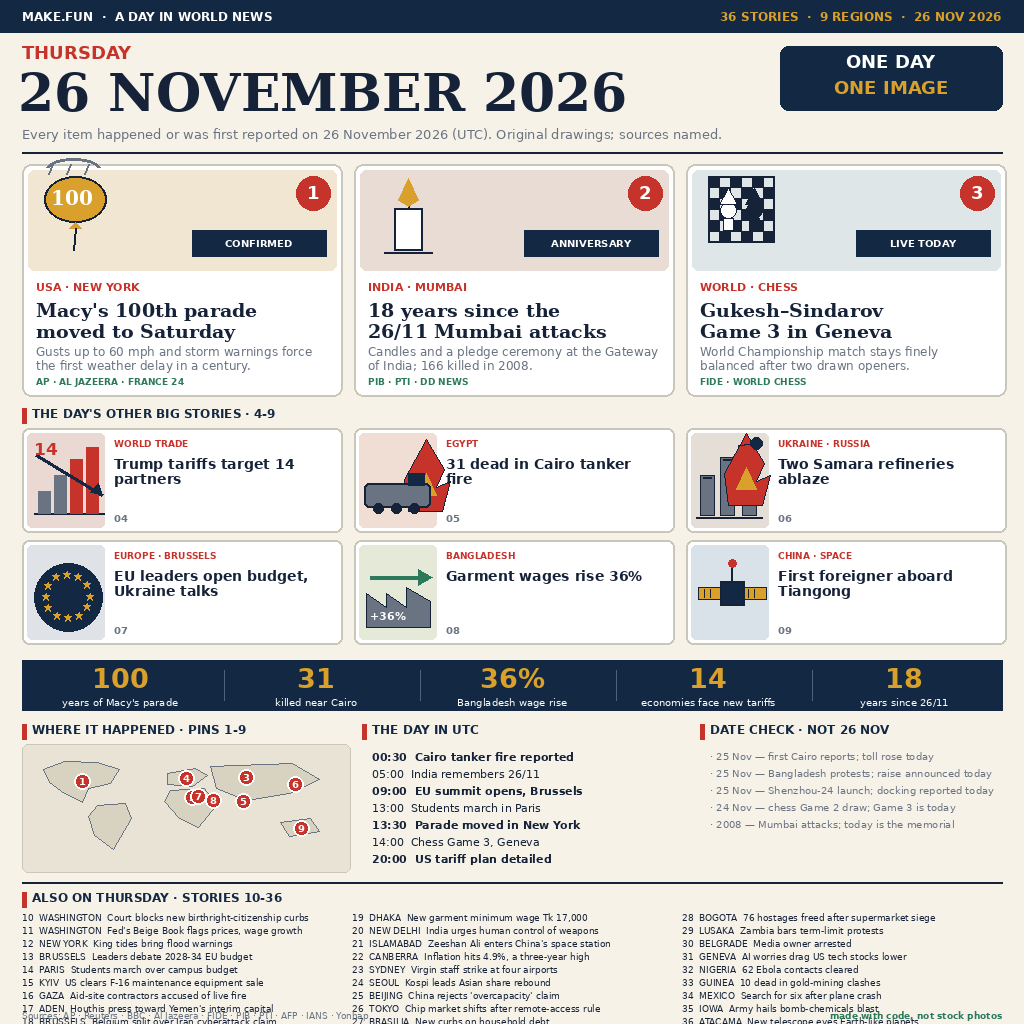
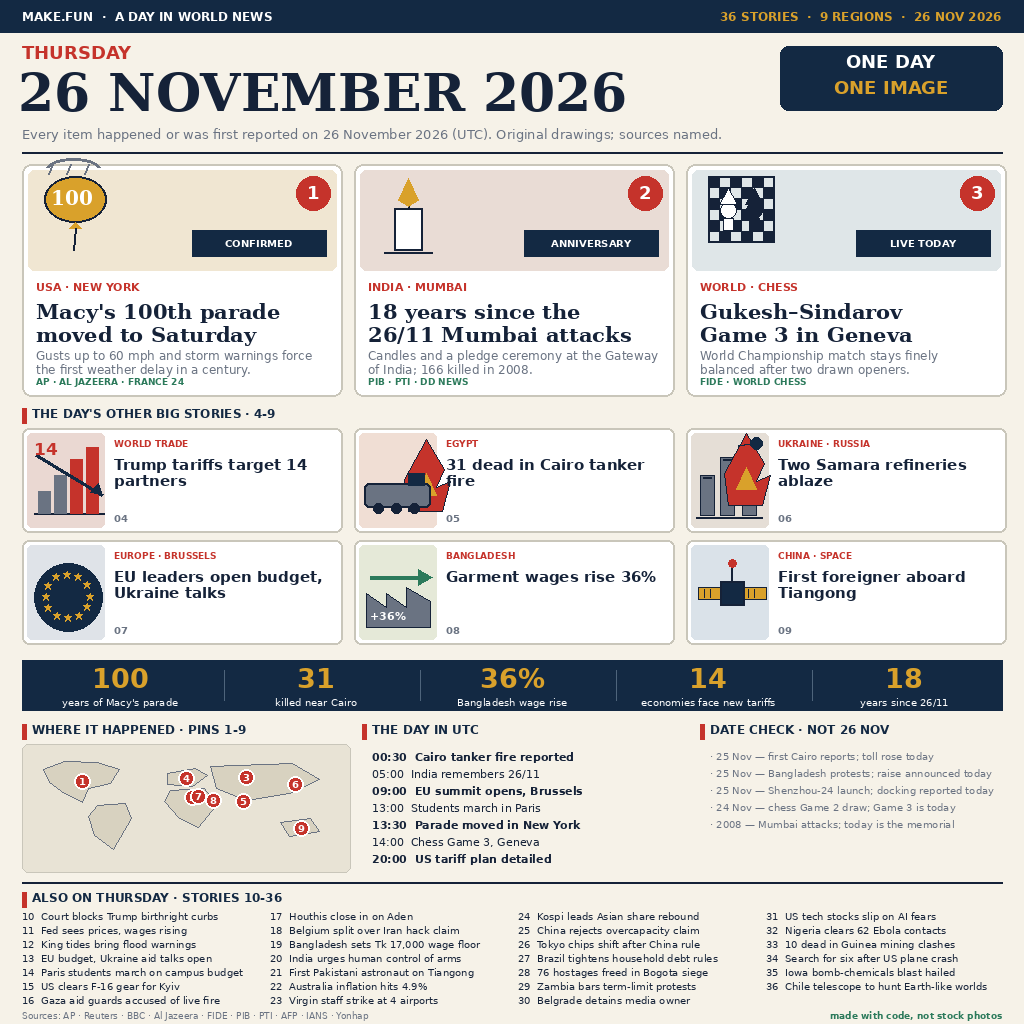
Improve legibility: larger headlines and four-column brief index

diff --git a/render.py b/render.py
@@ -266,33 +266,33 @@ DATE_CHECK = [
 ]
 
 BRIEFS = [
-    "10  WASHINGTON  Court blocks new birthright-citizenship curbs",
-    "11  WASHINGTON  Fed's Beige Book flags prices, wage growth",
-    "12  NEW YORK  King tides bring flood warnings",
-    "13  BRUSSELS  Leaders debate 2028-34 EU budget",
-    "14  PARIS  Students march over campus budget",
-    "15  KYIV  US clears F-16 maintenance equipment sale",
-    "16  GAZA  Aid-site contractors accused of live fire",
-    "17  ADEN  Houthis press toward Yemen's interim capital",
-    "18  BRUSSELS  Belgium split over Iran cyberattack claim",
-    "19  DHAKA  New garment minimum wage Tk 17,000",
-    "20  NEW DELHI  India urges human control of weapons",
-    "21  ISLAMABAD  Zeeshan Ali enters China's space station",
-    "22  CANBERRA  Inflation hits 4.9%, a three-year high",
-    "23  SYDNEY  Virgin staff strike at four airports",
-    "24  SEOUL  Kospi leads Asian share rebound",
-    "25  BEIJING  China rejects 'overcapacity' claim",
-    "26  TOKYO  Chip market shifts after remote-access rule",
-    "27  BRASILIA  New curbs on household debt",
-    "28  BOGOTA  76 hostages freed after supermarket siege",
-    "29  LUSAKA  Zambia bars term-limit protests",
-    "30  BELGRADE  Media owner arrested",
-    "31  GENEVA  AI worries drag US tech stocks lower",
-    "32  NIGERIA  62 Ebola contacts cleared",
-    "33  GUINEA  10 dead in gold-mining clashes",
-    "34  MEXICO  Search for six after plane crash",
-    "35  IOWA  Army hails bomb-chemicals blast",
-    "36  ATACAMA  New telescope eyes Earth-like planets",
+    "10  Court blocks Trump birthright curbs",
+    "11  Fed sees prices, wages rising",
+    "12  King tides bring flood warnings",
+    "13  EU budget, Ukraine aid talks open",
+    "14  Paris students march on campus budget",
+    "15  US clears F-16 gear for Kyiv",
+    "16  Gaza aid guards accused of live fire",
+    "17  Houthis close in on Aden",
+    "18  Belgium split over Iran hack claim",
+    "19  Bangladesh sets Tk 17,000 wage floor",
+    "20  India urges human control of arms",
+    "21  First Pakistani astronaut on Tiangong",
+    "22  Australia inflation hits 4.9%",
+    "23  Virgin staff strike at 4 airports",
+    "24  Kospi leads Asian share rebound",
+    "25  China rejects overcapacity claim",
+    "26  Tokyo chips shift after China rule",
+    "27  Brazil tightens household debt rules",
+    "28  76 hostages freed in Bogota siege",
+    "29  Zambia bars term-limit protests",
+    "30  Belgrade detains media owner",
+    "31  US tech stocks slip on AI fears",
+    "32  Nigeria clears 62 Ebola contacts",
+    "33  10 dead in Guinea mining clashes",
+    "34  Search for six after US plane crash",
+    "35  Iowa bomb-chemicals blast hailed",
+    "36  Chile telescope to hunt Earth-like worlds",
 ]
 
 
@@ -305,7 +305,7 @@ def lead_card(d: ImageDraw.ImageDraw, x: int, y: int, w: int, h: int, item: dict
     d.rectangle((x + w - 150, y + 66, x + w - 16, y + 92), fill=NAVY)
     d.text((x + w - 83, y + 79), item["tag"], font=f(10, True), fill=WHITE, anchor="mm")
     d.text((x + 14, y + 116), item["region"], font=f(11, True), fill=RED)
-    yy = para(d, x + 14, y + 135, item["title"], f(19, True, True), INK, w - 28, 2, 2)
+    yy = para(d, x + 14, y + 135, item["title"], f(21, True, True), INK, w - 28, 2, 2)
     yy = para(d, x + 14, yy + 3, item["sub"], f(12), MUTED, w - 28, 2, 2)
     d.text((x + 14, y + h - 20), item["source"], font=f(9, True), fill=GREEN)
 
@@ -316,7 +316,7 @@ def small_card(d: ImageDraw.ImageDraw, x: int, y: int, w: int, h: int,
     d.rounded_rectangle((x + 5, y + 5, x + 82, y + h - 5), radius=5, fill=bg)
     icon(d, x + 8, y + 15)
     d.text((x + 92, y + 10), region, font=f(9, True), fill=RED)
-    para(d, x + 92, y + 28, title, f(14, True), INK, w - 104, 1, 2)
+    para(d, x + 92, y + 28, title, f(15, True), INK, w - 104, 1, 2)
     d.text((x + 92, y + h - 20), "%02d" % num, font=f(10, True), fill=MUTED)
 
 
@@ -376,8 +376,8 @@ def build() -> None:
     d.line((22, 882, W - 22, 882), fill=INK, width=2)
     section_head(d, 22, 890, "ALSO ON THURSDAY · STORIES 10-36")
     for i, line in enumerate(BRIEFS):
-        col, row = divmod(i, 9)
-        d.text((22 + col * 330, 912 + row * 13), line, font=f(9), fill=INK)
+        col, row = divmod(i, 7)
+        d.text((22 + col * 248, 910 + row * 14), line, font=f(10), fill=INK)
     d.text((22, 1010), "Sources: AP · Reuters · BBC · Al Jazeera · FIDE · PIB · PTI · AFP · IANS · Yonhap",
            font=f(9), fill=MUTED)
     d.text((W - 22, 1010), "made with code, not stock photos", font=f(9, True),
